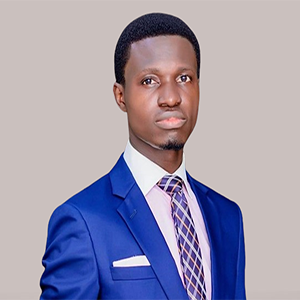
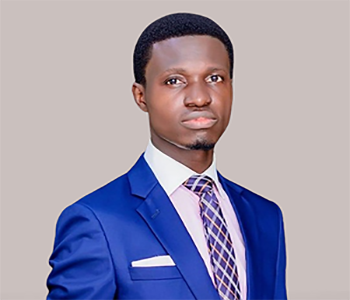
updated pics and change file size to 450kb

diff --git a/routes/photizoRoute.js b/routes/photizoRoute.js
@@ -24,8 +24,8 @@ router.route("/register").post(upload.single('file'),async(req,res,next)=>{
      req.flash('error','Please upload your receipt image.');
      return res.status(400).redirect('/photizo/register');
     } 
-    if (req.file.size > 768000) {//for acceptance of file up to 15kb only unless flag error
-        req.flash('error', 'Image size exceeds 750kb limit.');
+    if (req.file.size > 460800) {//for acceptance of file up to 15kb only unless flag error
+        req.flash('error', 'Image size exceeds 450kb limit.');
         return res.status(400).redirect('/photizo/register');
     }
     try{

diff --git a/model/photizo.js b/model/photizo.js
@@ -2,9 +2,9 @@ const mongoose = require("mongoose");
 const validator = require("validator");
 
 const photizoSchema = new mongoose.Schema({
-  surname: {
+  middleName: {
     type: String,
-    required: [true, "Please enter your surname name."],
+    required: [true, "Please enter your middle-name."],
     maxLength: 30,
     minLength: 5,
   },
